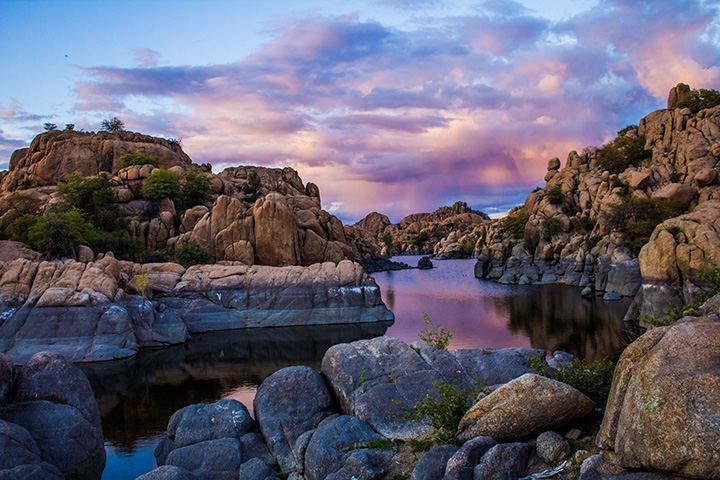
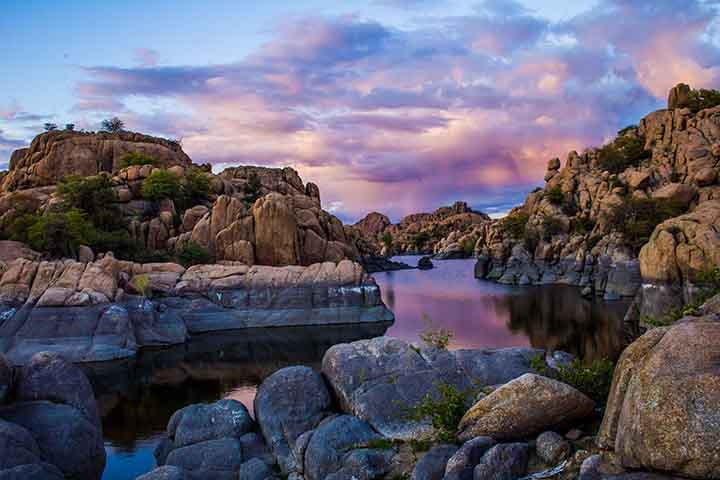
reduce image sizes for faster load

diff --git a/module-10/Minkler_Mod10_3.html b/module-10/Minkler_Mod10_3.html
@@ -22,6 +22,7 @@ Dec 1, 2024
         border-top: 25px solid lightskyblue;
       }
     </style>
+
     <script>
       // once page has loaded add an event listener to the image
       window.onload = function () {
@@ -89,8 +90,6 @@ Dec 1, 2024
     />
     <meta name="robots" content="nofollow" />
     <meta http-equiv="author" content="Robert Minkler" />
-
-    <link rel="stylesheet" href="Minkler_Mod2_2.css" type="text/css" />
 
     <title>CSD 340 Web Development with HTML and CSS</title>
   </head>
